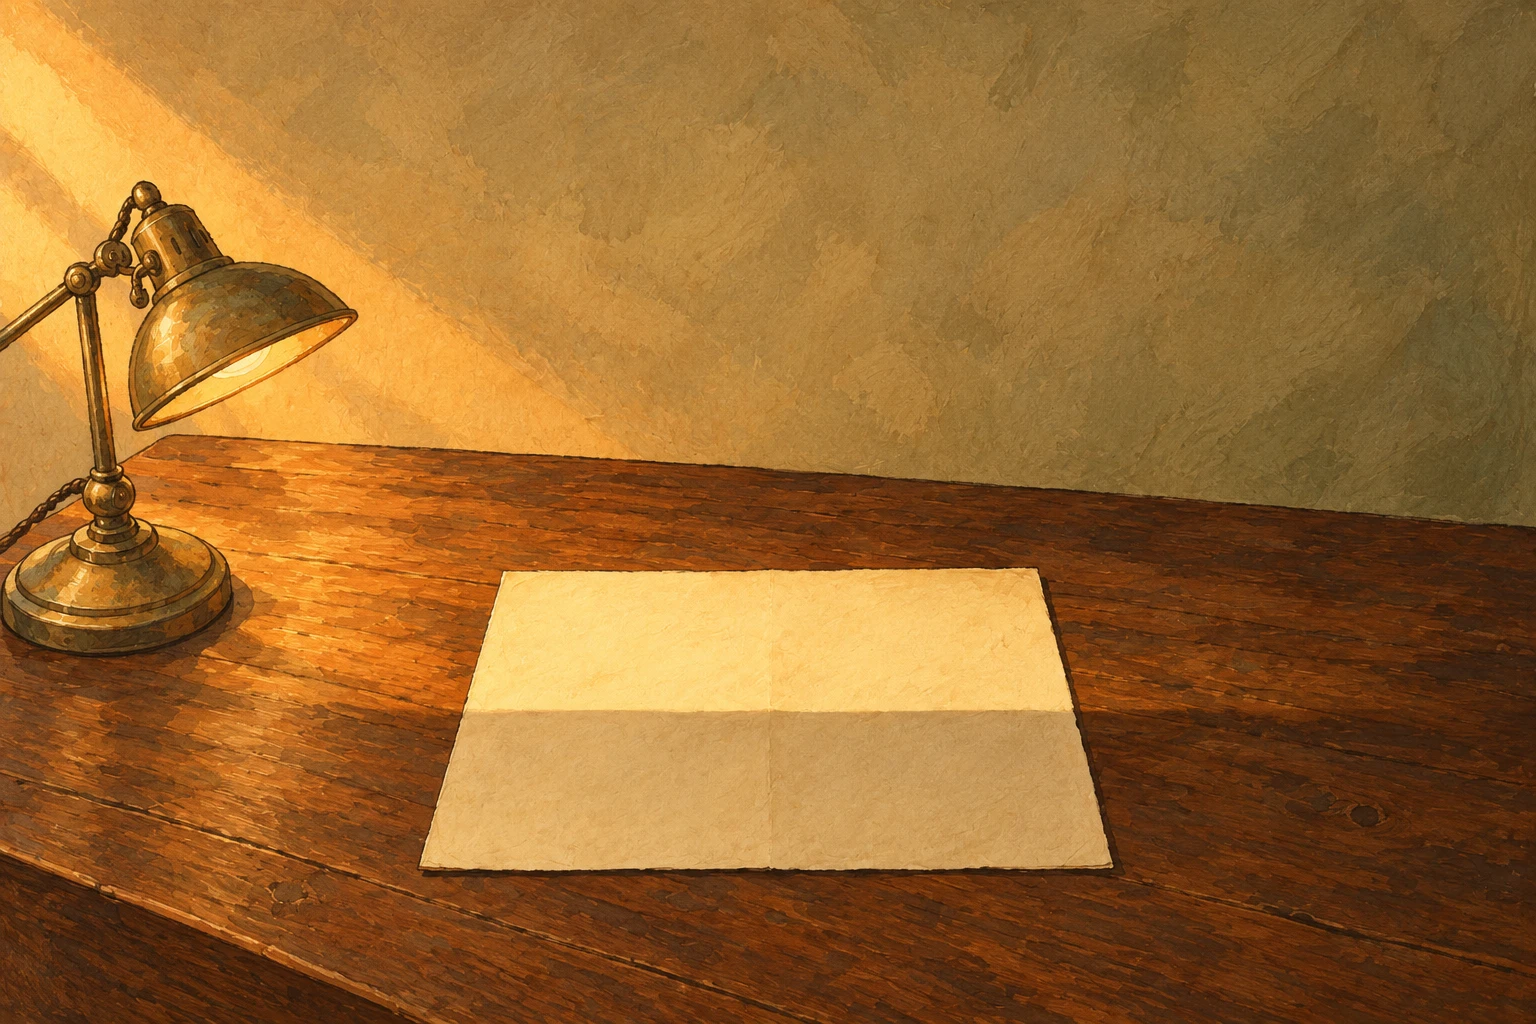
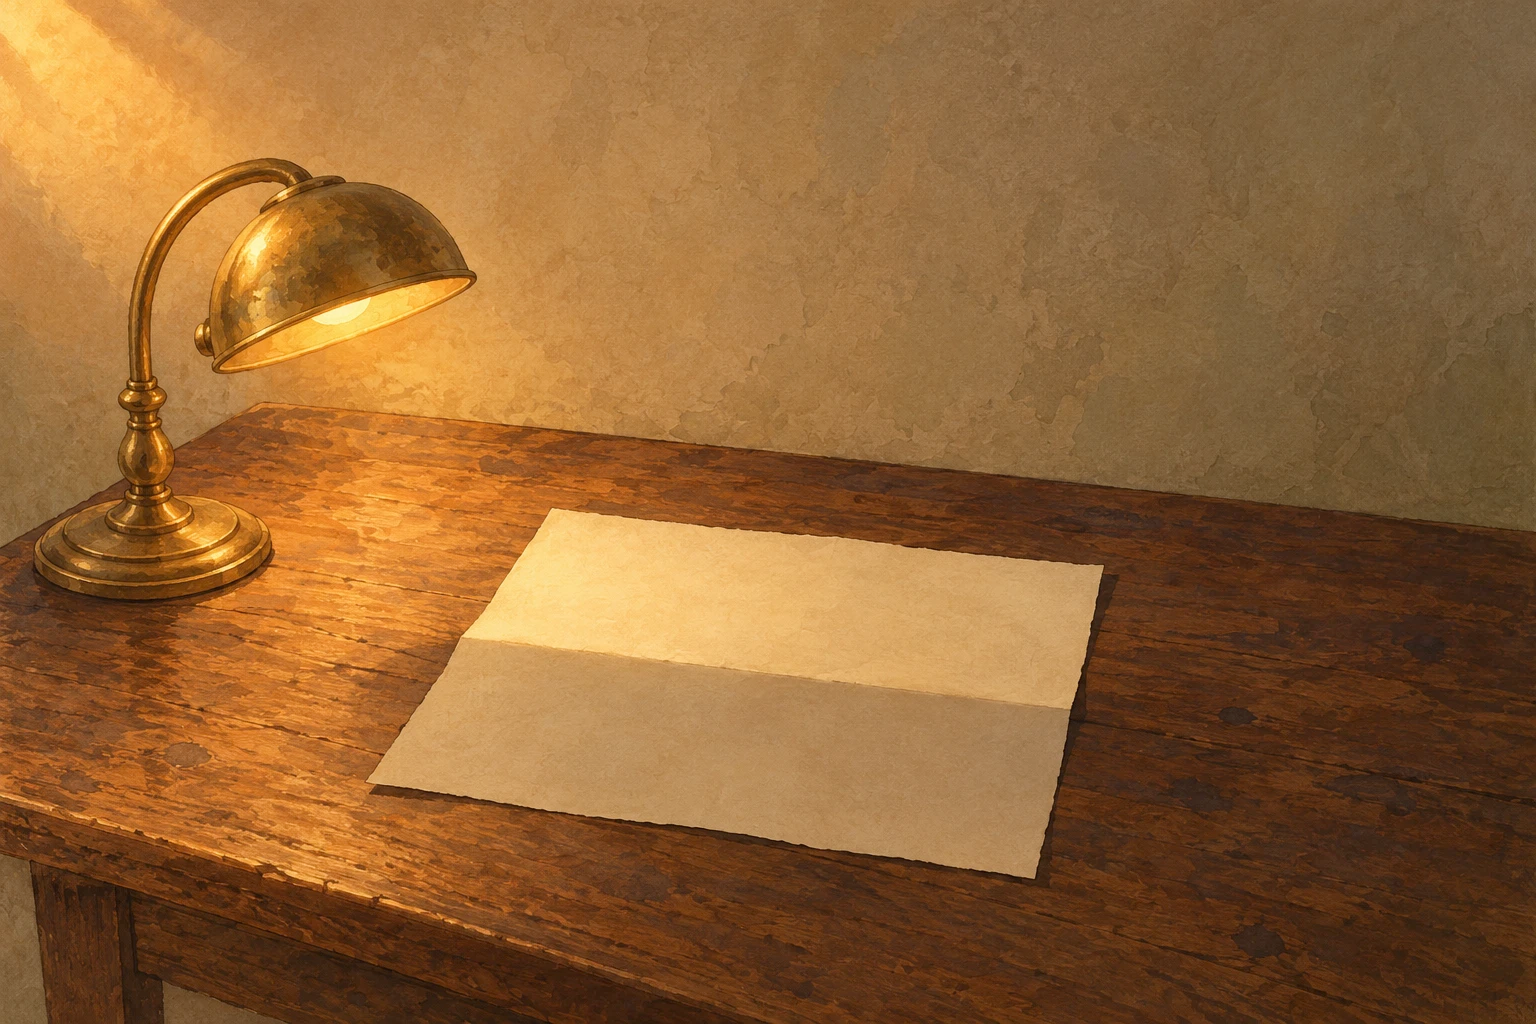
Accept cover-prologue v03
Claude-Session: https://claude.ai/code/session_01PsrXmJLcxyd21nqhscNtK1

diff --git a/docs/status.md b/docs/status.md
@@ -47,7 +47,8 @@
 - **3·4회차(2026-10-21, 교사가 깃허브에 올림):** 금속 창틀, 프롤로그·1장·2장·4장·5장 창밖 모두 통과(밝기, 가장자리 창틀 자르기 등 보정). 기록은 `art-src/README.md`. 금속 창틀의 창 좌표는 `art-direction.md` 4.4 `eraOverrides`.
 - **5회차(2026-10-21):** 에필로그 창밖 통과(밝기 낮춤). 창밖 7장 완료. 프롤로그·1장 표지는 램프가 오른쪽에 오고 물건이 더 생겨 다시 그린다(`art-prompts.md` 8.5.1). 프로젝트 소스의 `cover-ch3.png`를 무시한 것으로 보여, 표지는 대화에 `anchor-desk.png`와 `cover-ch3.png`를 직접 첨부하게 했다. 6·7회차 표지 프롬프트에도 같은 구도 문장을 넣었다.
 - **6회차 일부(2026-10-21, 채팅으로 받음):** 4장 표지 통과(밝기 보정, 3장 표지와 짝이 맞음). 2장 표지는 1장 표지 v01과 같은 틀(램프 오른쪽, 창문·서랍)로 나와 다시 그린다. 같은 대화에서 이어 그리면 ChatGPT가 앞 그림의 구도를 따라 하는 것으로 보여, 표지는 그림마다 새 대화에서 두 참고 그림을 직접 첨부하게 했다.
-- **다음:** 프롤로그·1장·2장 표지 다시 그리기, 5장·에필로그 표지. 남은 필수 그림은 표지 5장뿐.
+- **프롤로그 표지(2026-10-21):** v03 통과(램프 모양까지 맞음).
+- **다음:** 1장·2장 표지 다시 그리기, 5장·에필로그 표지. 남은 필수 그림은 표지 4장뿐.
 - **참고 그림 방식(2026-10-21 교사 요청):** ⑬부터 참고 그림을 ChatGPT 프로젝트 소스에 올리고, 프롬프트는 영어 파일 이름으로 가리킨다(`art-prompts.md` 0.5). `CLAUDE.md`의 "모든 그림 요청에 `anchor-desk.png` 첨부"는 프로젝트 소스로 지킨다. 짧은 프롬프트 전체는 `art-prompts.md` 8.2~8.7에 있다. 교사는 그림을 깃허브 `art-src/`에 올리고 Claude가 폴더 정리와 검수를 한다.
 - **작업 방식(2026-10-20 교사 요청):** 프롬프트 작업에는 워크플로(여러 에이전트 동시 실행)를 쓰지 않는다. 사용량을 많이 써서 한도에 걸렸다. 검사는 Claude가 직접 한다.
 - **먼저:** 교사가 M2 7장의 프롬프트(③~⑨)와 `art-prompts.md` 0.1의 새 결정을 읽고 확인한다. 고칠 곳이 있으면 프롬프트를 고친 뒤 시작한다.
